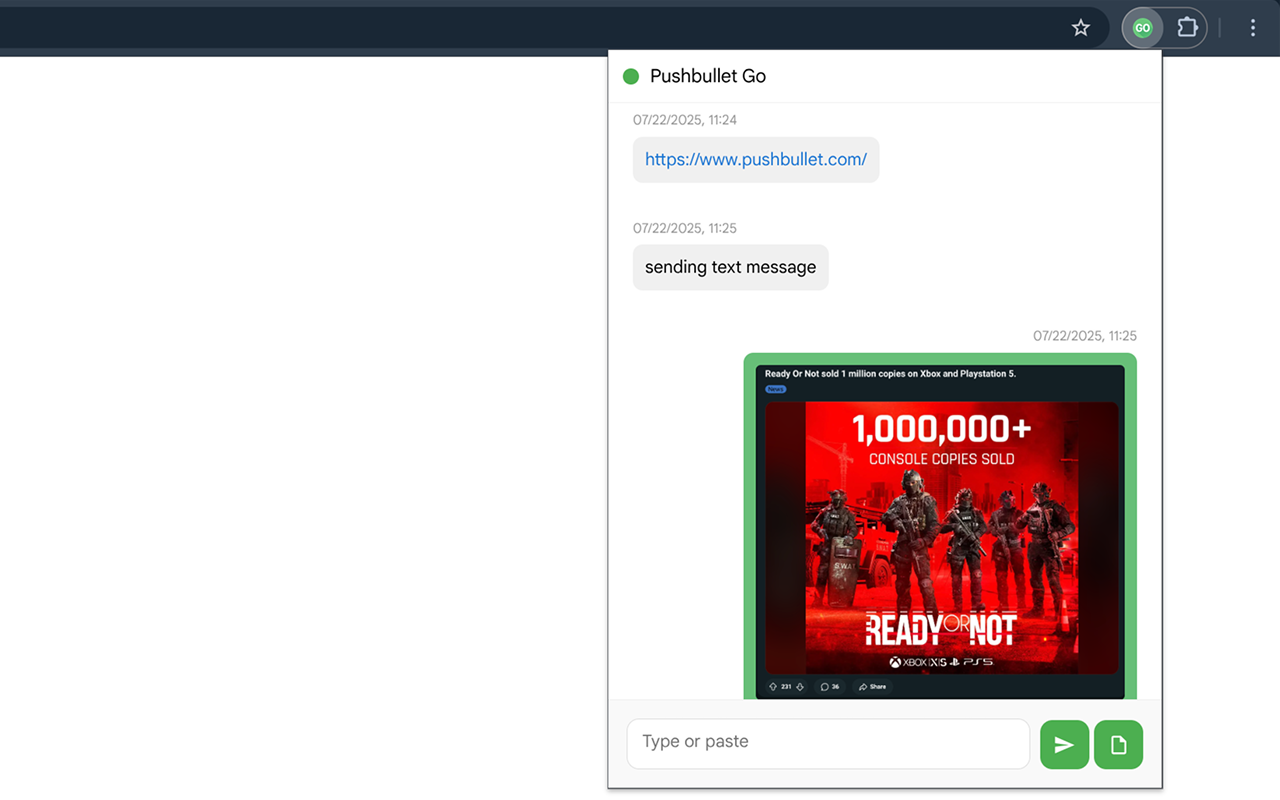
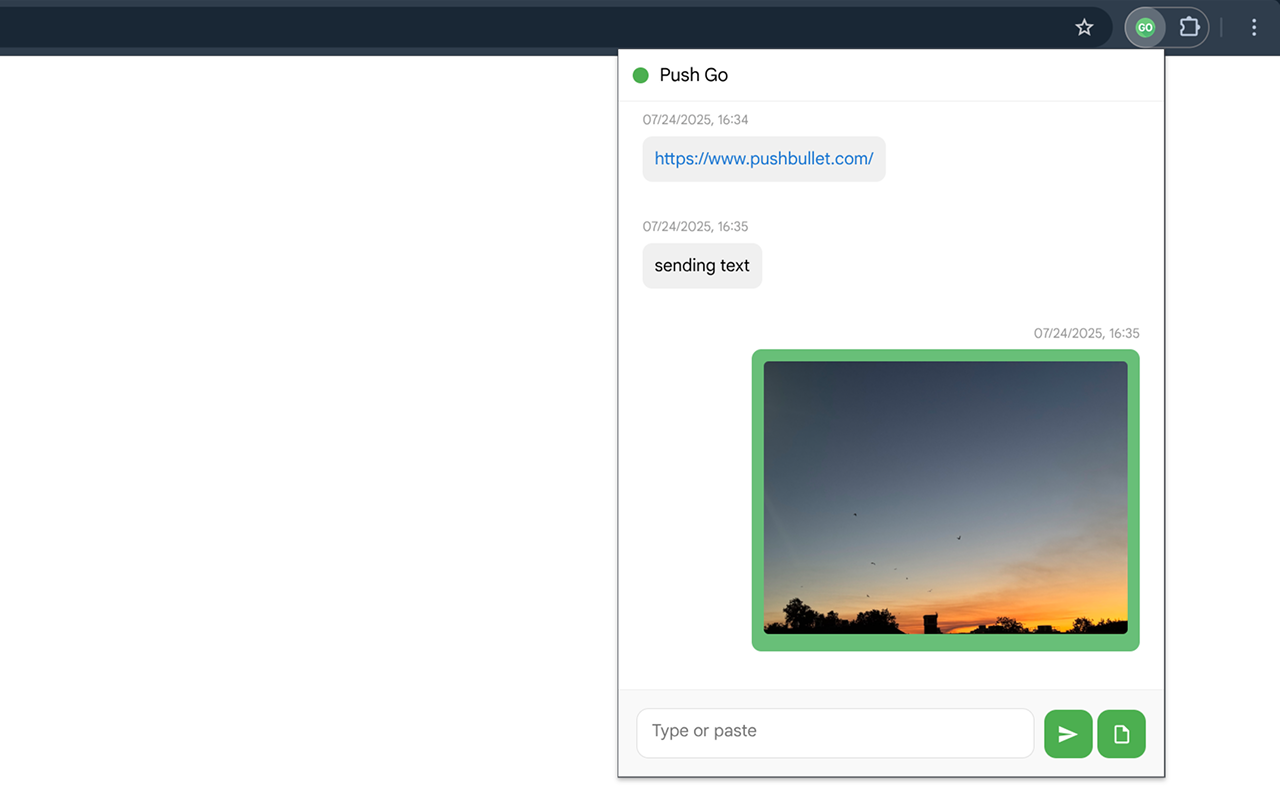
changes for Chrome Web Store

diff --git a/src/options.html b/src/options.html
@@ -2,7 +2,7 @@
 <html>
 <head>
   <meta charset="utf-8">
-  <title>Pushbullet Go Options</title>
+  <title>Push Go Options</title>
   <style>
     body { 
       font-family: -apple-system, BlinkMacSystemFont, 'Segoe UI', Roboto, sans-serif; 
@@ -106,7 +106,7 @@
 </head>
 <body>
   <div class="container">
-    <h1>Pushbullet Go Options</h1>
+    <h1>Push Go Options</h1>
     <div class="form-group">
       <label for="accessToken">Access Token:</label>
       <input type="text" id="accessToken" placeholder="Enter your Pushbullet access token">

diff --git a/src/popup.html b/src/popup.html
@@ -246,7 +246,7 @@
   <div class="header">
     <div style="display: flex; align-items: center;">
       <div id="connectionStatus" class="status disconnected"></div>
-      <span>Pushbullet Go</span>
+      <span>Push Go</span>
     </div>
     <button id="retryConnection" style="background: #4caf50; color: white; border: none; padding: 3px 10px; border-radius: 4px; cursor: pointer; font-size: 12px; display: flex; align-items: center; justify-content: center;" title="Retry connection">
       Reconnect

diff --git a/src/file.html b/src/file.html
@@ -2,7 +2,7 @@
 <html>
 <head>
   <meta charset="utf-8">
-  <title>Push File/Image - Pushbullet Go</title>
+  <title>Push File/Image - Push Go</title>
   <style>
     body {
       margin: 0;

diff --git a/README.md b/README.md
@@ -1,4 +1,5 @@
 # Pushbullet Go
+> **Note**: The extension name has been changed to "Push Go" due to Chrome Web Store policy.
 
 ![Pushbullet Go](screenshots/1_popup.png)
 
@@ -19,7 +20,7 @@ This is an extension for [Pushbullet](https://www.pushbullet.com/), so you must 
 
 ## Installation
 
-Install directly from the [Chrome Web Store](https://chromewebstore.google.com/) or:
+Install directly from the [Chrome Web Store (pending review)](https://chromewebstore.google.com/) or:
 
 1. Download the extension (crx file) from the `release/` folder
 2. Open Chrome and navigate to `chrome://extensions/`

diff --git a/docs/privacy.md b/docs/privacy.md
@@ -1,10 +1,10 @@
-# Privacy Policy for Pushbullet Go
+# Privacy Policy for Push Go
 
-**Last Updated: July 22, 2025**
+**Last Updated: July 24, 2025**
 
 ## Data Collection
 
-Pushbullet Go does not collect, store, or transmit any personal data from users. This extension operates solely as a client interface for the Pushbullet service.
+Push Go does not collect, store, or transmit any personal data from users. This extension operates solely as a client interface for the Pushbullet service.
 
 ## Data Usage
 
